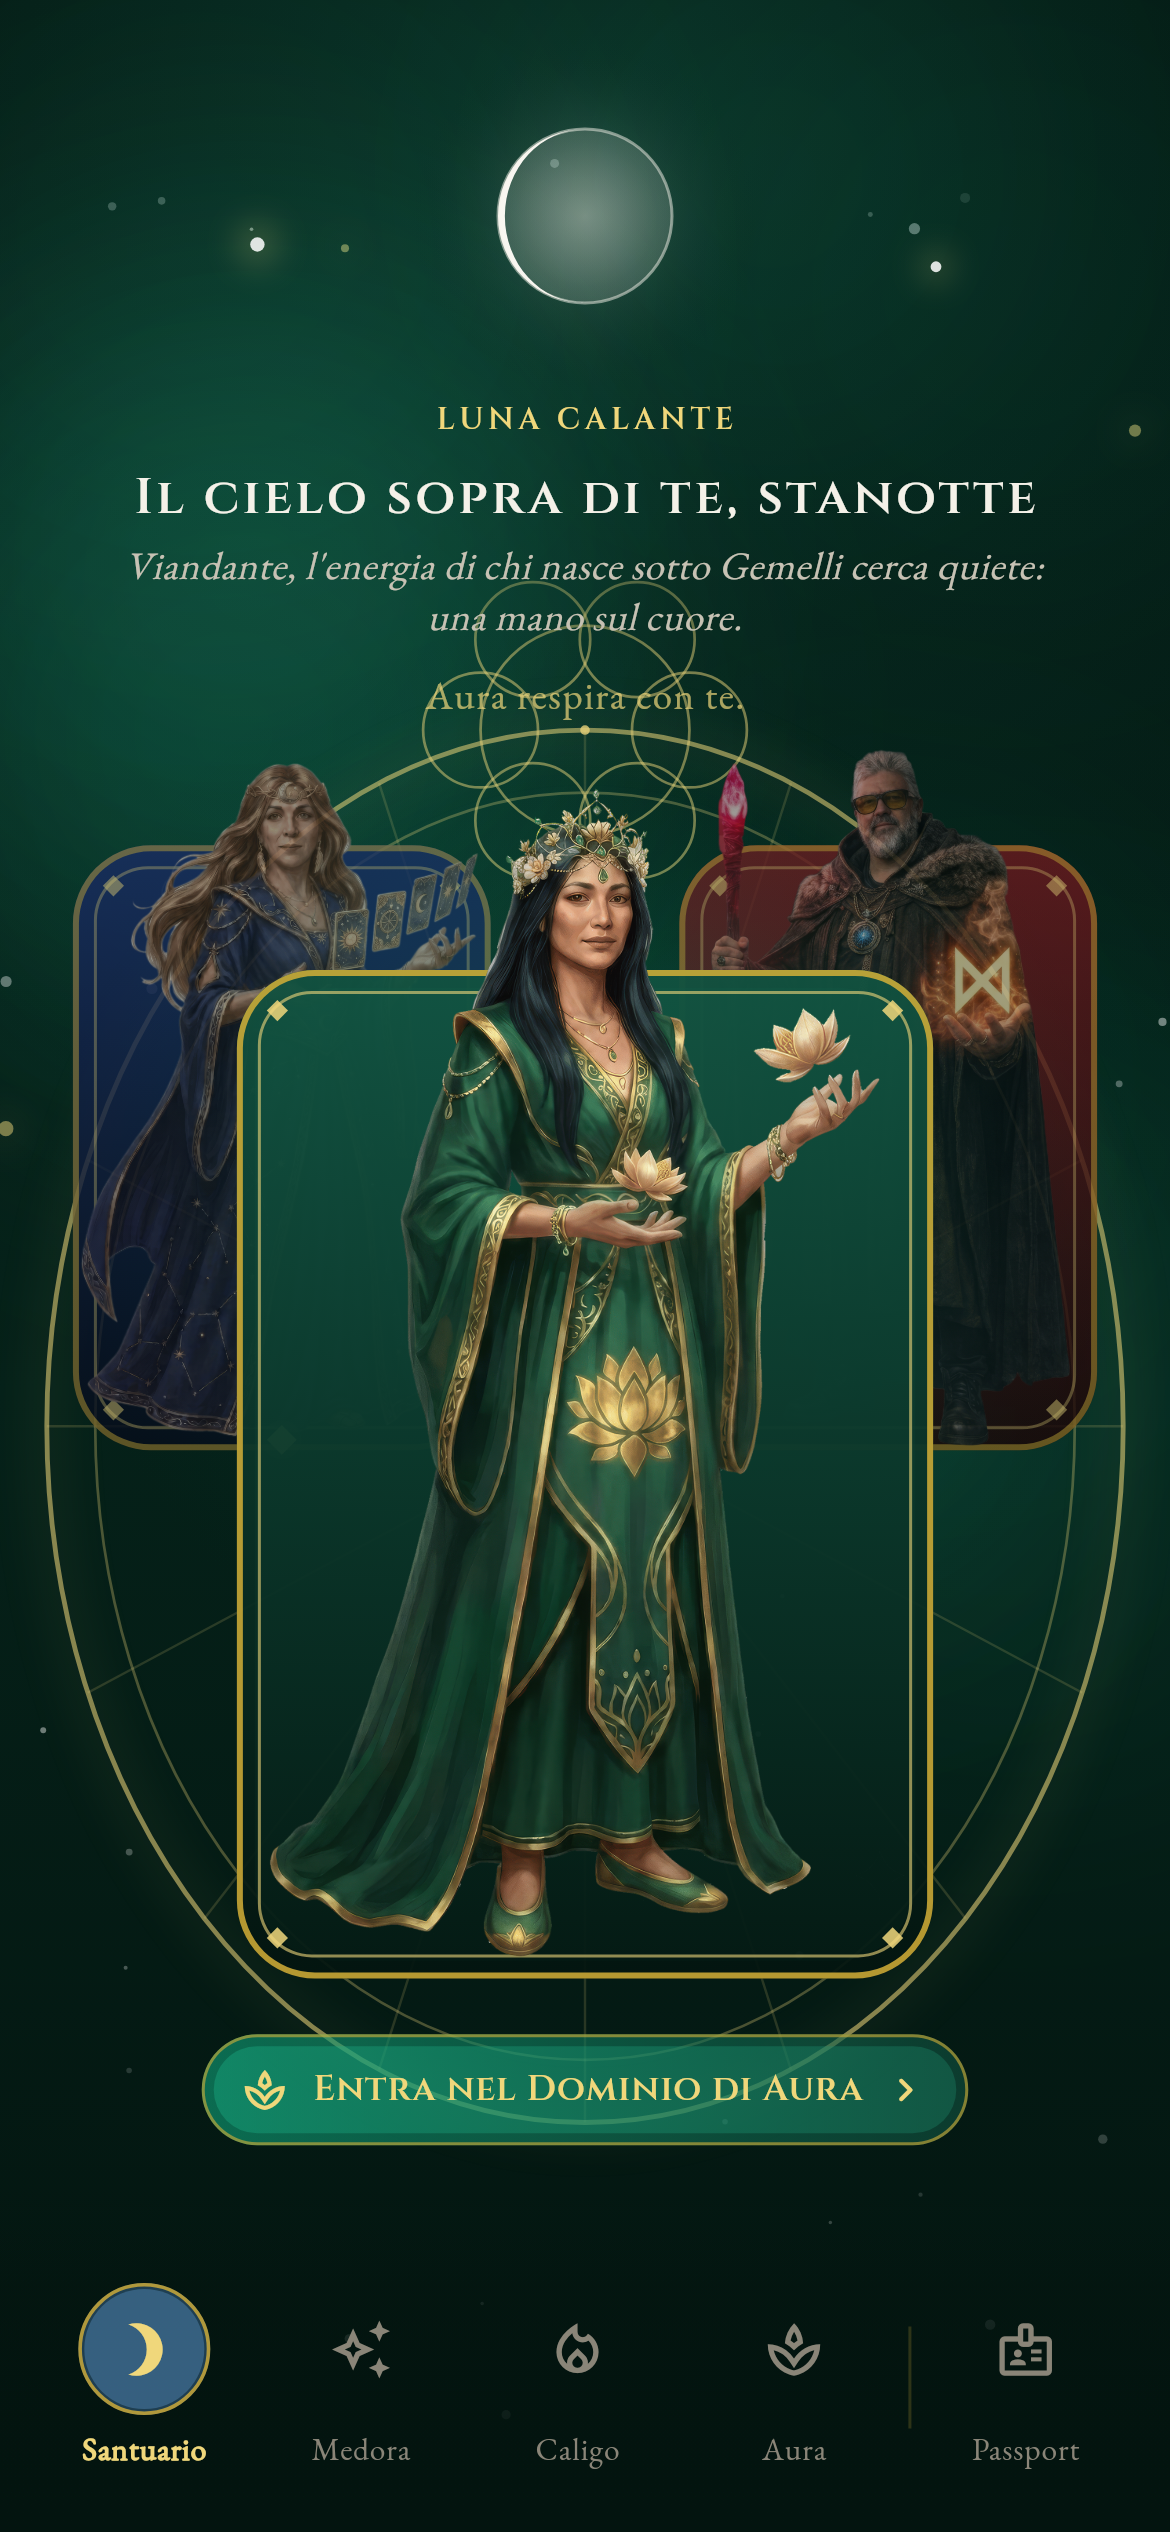
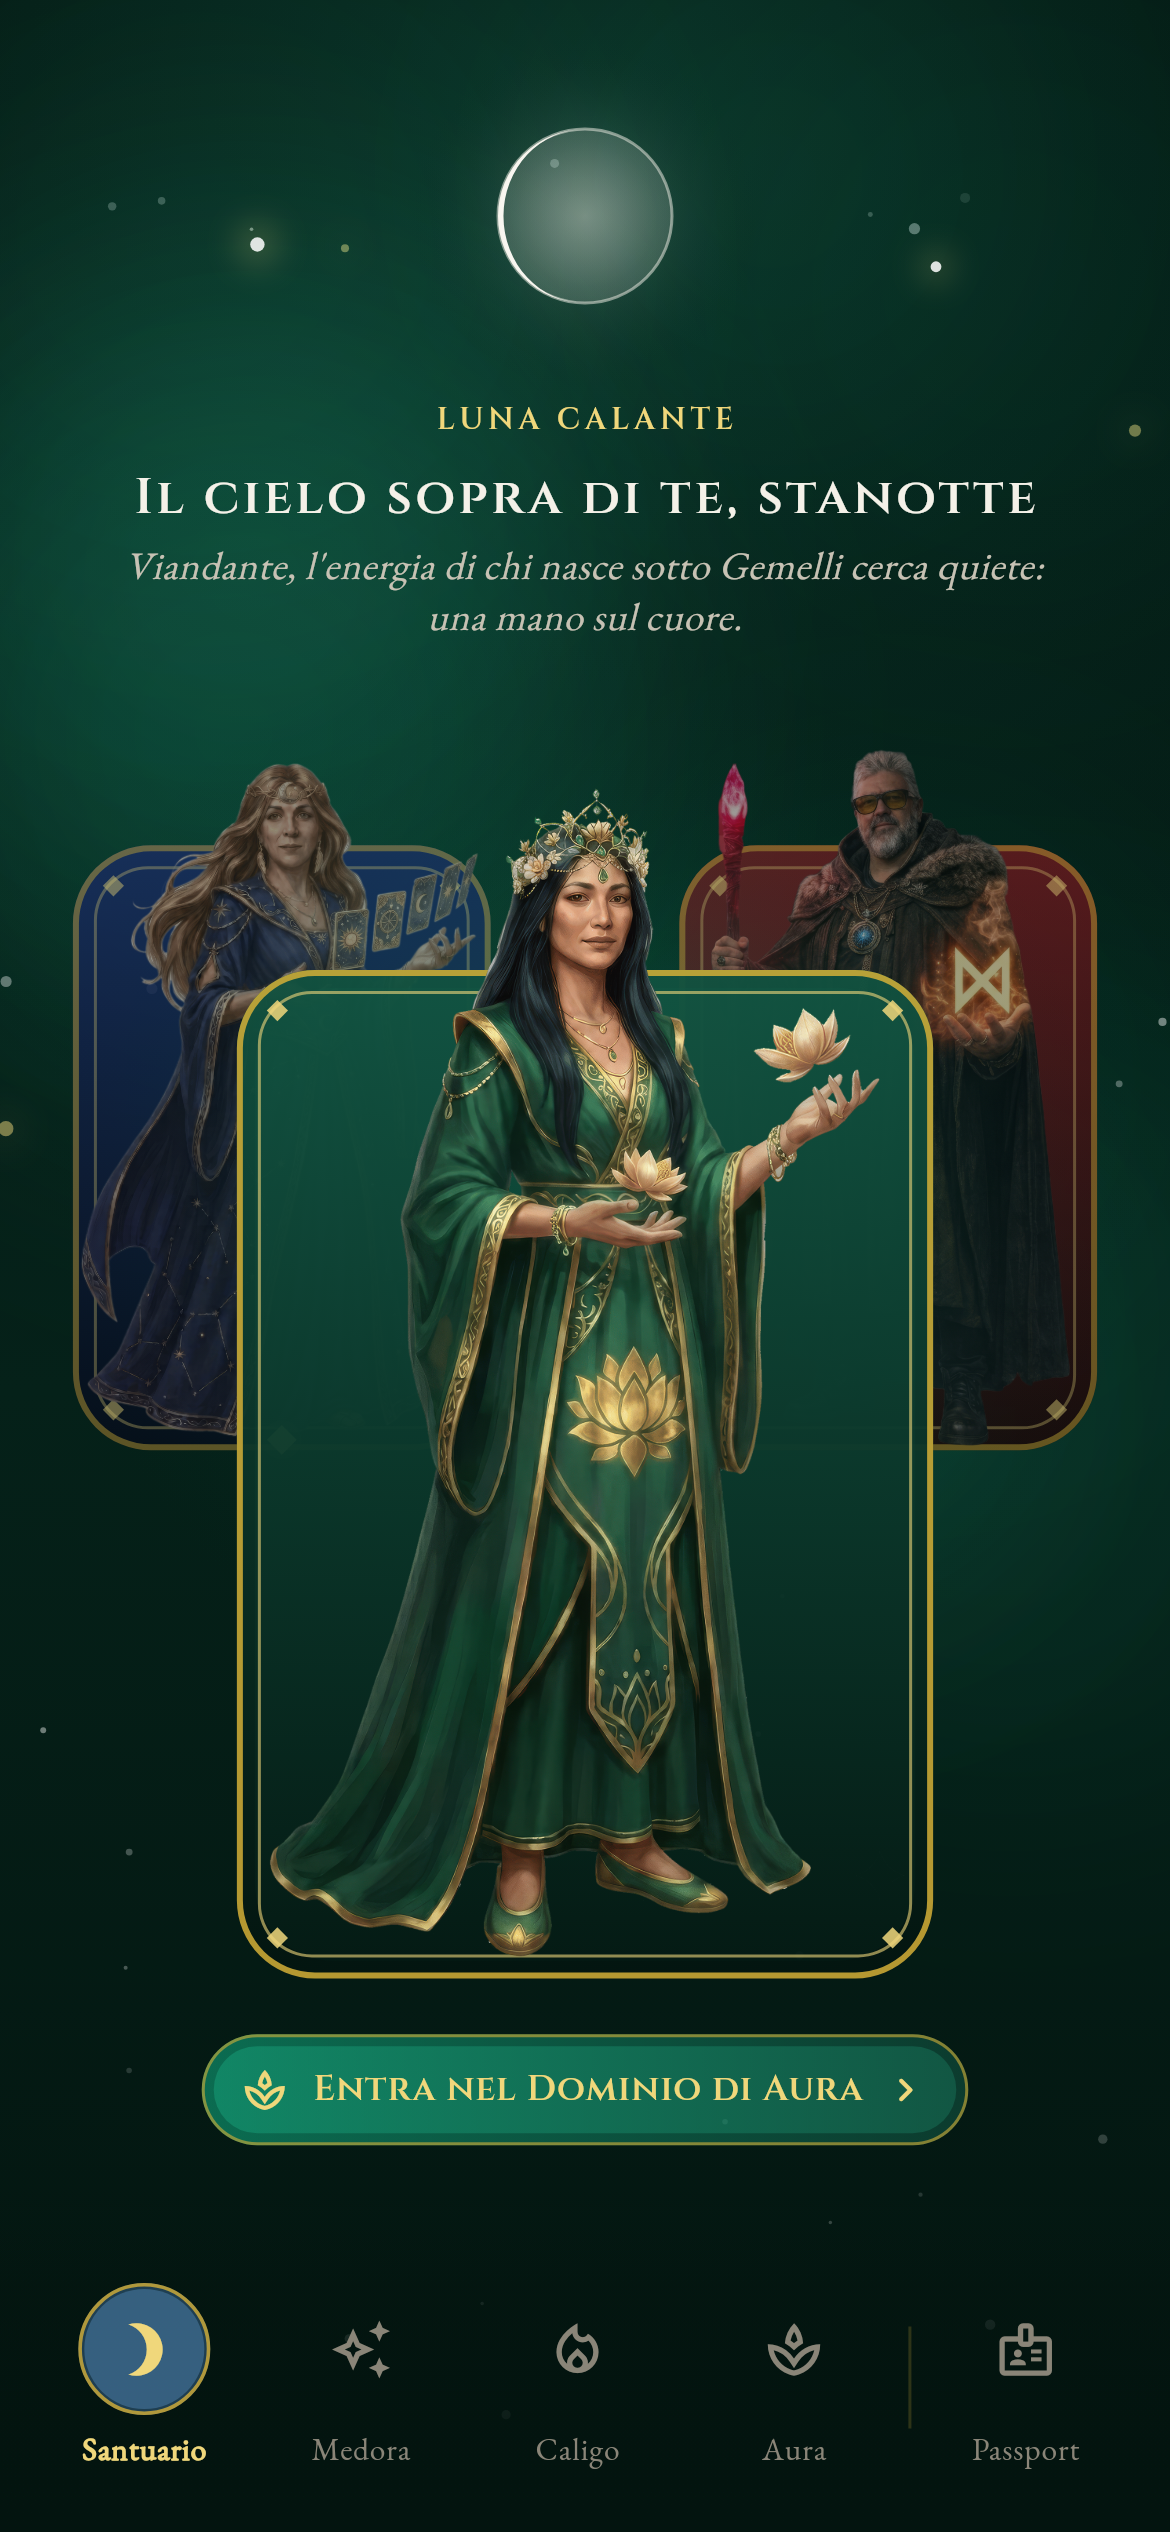
Santuario: via l'anello vettoriale e il saluto secondario
Parte 1. Rimossa del tutto l'ellisse dorata e la geometria sacra vettoriale
dietro i Maestri (rosone, raggi, doppio filo): niente forme disegnate a
vettori come fondale. Lo sfondo torna al cosmo pulito, stelle, nebulose e
Luna, con spazio scuro dietro i tre Maestri. Rimosso anche il saluto
secondario del Maestro in alto: restano occhiello (fase reale),
intestazione e riga personale.

Parte 2 (fondale con Nano Banana Pro) non svolta: in questo ambiente non ci
sono credenziali Vertex valide ne' strumenti di generazione immagini.
Fermato come richiesto, senza ripiegare su un disegno vettoriale.

Claude-Session: https://claude.ai/code/session_01Bk13X9buChdcJyAhRjA85x

diff --git a/lib/features/santuario/santuario_screen.dart b/lib/features/santuario/santuario_screen.dart
@@ -52,34 +52,12 @@ class SantuarioScreen extends StatefulWidget {
 class _SantuarioScreenState extends State<SantuarioScreen>
     with SingleTickerProviderStateMixin {
   late final AnimationController _breath;
-  Maestro? _lastCentral;
-  String? _greeting;
-  Timer? _greetingTimer;
-  final Map<Maestro, int> _greetingIndex = {};
 
   // Invito al tocco del cielo: appare dopo qualche secondo di inattivita' e si
   // dissolve al primo tocco, coerente con la scala dell'aiuto universale.
   Timer? _skyHintTimer;
   bool _showSkyHint = false;
   bool _skyHintDismissed = false;
-
-  static const Map<Maestro, List<String>> _greetings = {
-    Maestro.medora: [
-      'Medora ti accoglie.',
-      'Medora ti sorride.',
-      'Le stelle si voltano verso di te.',
-    ],
-    Maestro.aura: [
-      'Aura respira con te.',
-      'Aura ti avvolge.',
-      'Un respiro e sei qui.',
-    ],
-    Maestro.caligo: [
-      'Caligo alza lo sguardo.',
-      'Caligo ti riconosce.',
-      'Le rune si destano.',
-    ],
-  };
 
   @override
   void initState() {
@@ -114,22 +92,9 @@ class _SantuarioScreenState extends State<SantuarioScreen>
 
   @override
   void dispose() {
-    _greetingTimer?.cancel();
     _skyHintTimer?.cancel();
     _breath.dispose();
     super.dispose();
-  }
-
-  void _onCentralChanged(Maestro maestro) {
-    // Saluto breve a rotazione, mai lo stesso due volte di fila, non blocca.
-    final variants = _greetings[maestro]!;
-    final next = ((_greetingIndex[maestro] ?? -1) + 1) % variants.length;
-    _greetingIndex[maestro] = next;
-    setState(() => _greeting = variants[next]);
-    _greetingTimer?.cancel();
-    _greetingTimer = Timer(const Duration(milliseconds: 1300), () {
-      if (mounted) setState(() => _greeting = null);
-    });
   }
 
   void _enterDomain(BuildContext context, Maestro maestro) {
@@ -174,14 +139,6 @@ class _SantuarioScreenState extends State<SantuarioScreen>
     final parallax = context.watch<ParallaxController>();
     final palette = context.palette;
 
-    // Segnala il cambio di centrale per il saluto (solo su un Maestro scelto).
-    if (selected && central != _lastCentral) {
-      WidgetsBinding.instance.addPostFrameCallback((_) {
-        if (mounted) _onCentralChanged(central);
-      });
-    }
-    _lastCentral = selected ? central : null;
-
     final moon = MoonPhase.forDate(DateTime.now());
 
     // Slot personali: nome e segno dell'utente. Segnaposto in attesa del
@@ -208,32 +165,12 @@ class _SantuarioScreenState extends State<SantuarioScreen>
           final carouselBottom = h * 0.11;
           final carouselHeight = centralH * 1.32;
 
-          // Anello del Santuario, dietro i tre Maestri: ellisse dorata attorno
-          // al terzetto, con l'arco superiore ben sopra le teste.
-          final ringCenter =
-              Offset(w / 2, h - (carouselBottom + centralH * 0.46));
-
           return Stack(
             children: [
-              // Anello del Santuario, dietro tutto: sottile e luminoso, con
-              // dentro una geometria sacra leggera (rosone e raggi da finestra
-              // di monastero). Fa anche da cerchio visibile che unisce i tre
-              // Maestri. Dove passerebbe sul testo in alto si dissolve. E' un
-              // segnaposto in codice, il fondale dipinto arriva dopo come piano
-              // profondo dietro l'anello.
-              Positioned.fill(
-                child: CustomPaint(
-                  painter: _SanctuaryRingPainter(
-                    center: ringCenter,
-                    rx: w * 0.46,
-                    ry: centralH * 0.58,
-                    color: palette.goldSoft,
-                    offset: depth(0.22),
-                    fadeStartY: h * 0.19,
-                    fadeEndY: h * 0.30,
-                  ),
-                ),
-              ),
+              // Nessuna forma vettoriale come fondale: dietro i Maestri resta
+              // il cosmo pulito (stelle, nebulose, Luna) e lo spazio scuro. Il
+              // fondale dipinto del Santuario, quando pronto, si monta qui come
+              // piano profondo dietro i busti.
 
               // Cielo in alto: nebulose soffuse tinte sull'accento del Maestro
               // e un paio di stelle piu' luminose a evocare i pianeti, in
@@ -325,30 +262,6 @@ class _SantuarioScreenState extends State<SantuarioScreen>
                   onTapSide: (m) => _selectSide(context, m),
                 ),
               ),
-
-              // Saluto breve, secondario e non bloccante: sotto il titolo e
-              // sopra le teste, sull'arco dell'anello. Non ripete la fase.
-              if (_greeting != null)
-                Positioned(
-                  left: 0,
-                  right: 0,
-                  top: h * 0.30,
-                  child: IgnorePointer(
-                    child: Center(
-                      child: AnimatedOpacity(
-                        opacity: 1,
-                        duration: const Duration(milliseconds: 250),
-                        child: Text(
-                          _greeting!,
-                          style: TypographyTokens.body(size: 13).copyWith(
-                            color: palette.goldSoft.withValues(alpha: 0.7),
-                            letterSpacing: 0.5,
-                          ),
-                        ),
-                      ),
-                    ),
-                  ),
-                ),
 
               // Terza via al dominio: un pulsante a bolla discreto sotto il
               // Maestro al centro, nella sua palette, col nome che si aggiorna.
@@ -500,128 +413,6 @@ class _Carousel extends StatelessWidget {
       },
     );
   }
-}
-
-/// L'anello del Santuario: un'ellisse dorata semitrasparente dietro i tre
-/// Maestri, sottile e luminosa, con dentro una geometria sacra leggera, un
-/// rosone al vertice e raggi da finestra di monastero. Fa da cerchio visibile
-/// che unisce i tre. Dove salirebbe sul testo in alto si dissolve. Segnaposto
-/// in codice, in attesa del fondale dipinto come piano profondo dietro.
-class _SanctuaryRingPainter extends CustomPainter {
-  _SanctuaryRingPainter({
-    required this.center,
-    required this.rx,
-    required this.ry,
-    required this.color,
-    required this.offset,
-    required this.fadeStartY,
-    required this.fadeEndY,
-  });
-
-  final Offset center;
-  final double rx;
-  final double ry;
-  final Color color;
-  final Offset offset;
-
-  /// Sopra [fadeStartY] l'anello e' trasparente, sotto [fadeEndY] pieno: cosi'
-  /// dove passerebbe sul testo in alto si dissolve e la lettura resta pulita.
-  final double fadeStartY;
-  final double fadeEndY;
-
-  @override
-  void paint(Canvas canvas, Size size) {
-    final bounds = Offset.zero & size;
-    canvas.saveLayer(bounds, Paint());
-
-    canvas.save();
-    canvas.translate(offset.dx, offset.dy);
-    final c = center;
-    final rect = Rect.fromCenter(center: c, width: rx * 2, height: ry * 2);
-
-    // Alone morbido dell'anello.
-    canvas.drawOval(
-      rect,
-      Paint()
-        ..style = PaintingStyle.stroke
-        ..strokeWidth = 6
-        ..color = color.withValues(alpha: 0.10)
-        ..maskFilter = const MaskFilter.blur(BlurStyle.normal, 8),
-    );
-    // Anello principale.
-    canvas.drawOval(
-      rect,
-      Paint()
-        ..style = PaintingStyle.stroke
-        ..strokeWidth = 1.6
-        ..color = color.withValues(alpha: 0.55),
-    );
-    // Doppio filo interno, da finestra di monastero.
-    canvas.drawOval(
-      Rect.fromCenter(center: c, width: rx * 1.82, height: ry * 1.82),
-      Paint()
-        ..style = PaintingStyle.stroke
-        ..strokeWidth = 0.9
-        ..color = color.withValues(alpha: 0.30),
-    );
-
-    // Raggi dal centro all'anello, tenui: la finestra a raggiera.
-    final spoke = Paint()
-      ..style = PaintingStyle.stroke
-      ..strokeWidth = 0.8
-      ..color = color.withValues(alpha: 0.16);
-    const n = 16;
-    for (var i = 0; i < n; i++) {
-      final a = 2 * math.pi * i / n;
-      canvas.drawLine(
-          c, Offset(c.dx + rx * math.cos(a), c.dy + ry * math.sin(a)), spoke);
-    }
-
-    // Rosone al vertice alto dell'anello, nella zona visibile sopra le teste.
-    _rosette(canvas, Offset(c.dx, c.dy - ry), ry * 0.15);
-
-    canvas.restore();
-
-    // Dissolvenza in alto, dove l'anello sfiorerebbe il testo.
-    final s0 = (fadeStartY / size.height).clamp(0.0, 1.0);
-    final s1 = (fadeEndY / size.height).clamp(0.0, 1.0);
-    canvas.drawRect(
-      bounds,
-      Paint()
-        ..blendMode = BlendMode.dstIn
-        ..shader = LinearGradient(
-          begin: Alignment.topCenter,
-          end: Alignment.bottomCenter,
-          colors: const [Colors.transparent, Colors.transparent, Colors.black],
-          stops: [0.0, s0, s1 <= s0 ? s0 + 0.01 : s1],
-        ).createShader(bounds),
-    );
-    canvas.restore();
-  }
-
-  void _rosette(Canvas canvas, Offset o, double r) {
-    final p = Paint()
-      ..style = PaintingStyle.stroke
-      ..strokeWidth = 0.9
-      ..color = color.withValues(alpha: 0.5);
-    canvas.drawCircle(o, r, p);
-    for (var i = 0; i < 6; i++) {
-      final a = 2 * math.pi * i / 6;
-      canvas.drawCircle(
-          Offset(o.dx + r * math.cos(a), o.dy + r * math.sin(a)), r * 0.55, p);
-    }
-    canvas.drawCircle(o, 1.6, Paint()..color = color.withValues(alpha: 0.8));
-  }
-
-  @override
-  bool shouldRepaint(_SanctuaryRingPainter old) =>
-      old.center != center ||
-      old.rx != rx ||
-      old.ry != ry ||
-      old.color != color ||
-      old.offset != offset ||
-      old.fadeStartY != fadeStartY ||
-      old.fadeEndY != fadeEndY;
 }
 
 /// Pulsante a bolla discreto, terza via al dominio del Maestro al centro. Sta
